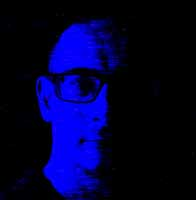
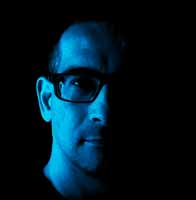
241022
138

diff --git a/index.html b/index.html
@@ -15,7 +15,7 @@
       <section class="header__left">
       </section>
       <section class="header__center">
-        <h1 class="header__hi">Hi, i'm Serge.</h1>
+        <h1 class="header__hi">Hi, i'm Serge</h1>
         <h1 class="header__description"> This page contains a short info about me, my skills and my portfolio.</h1>
       </section>
       <section class="header__right">
@@ -25,7 +25,7 @@
       <section class="about-me">
         <section class="about">
           <h2 class="about__header">about me</h2>
-          <p><img class="my-foto" src="assets/images/me.png" alt="Image1"  ></p>
+          <p><img class="my-foto" src="assets/images/me.jpg" alt="Image1"  ></p>
           <div class="resume__text">
             <p class="text">I'm beginner front-end developer. Living in Kharkiv, Ukraine. </p>
             <p class="text">Currently learning html, css, js</p>

diff --git a/css/styles.css b/css/styles.css
@@ -148,7 +148,7 @@ body {
   font-family: 'Goldman', Sans-Serif;
   padding: 10px;
   background-color: black;
-  border: 3px solid #0058D3;
+  border: 3px solid #002251;
   border-radius: 15px;
   box-shadow: 0px 0px 3px #0058D3;
   color: #388BFF;
@@ -363,7 +363,7 @@ body {
 
   .header__hi {
     padding: 10px;
-    font-size: 28px; }
+    font-size: 22px; }
 
   .header__description {
     width: 90%;

diff --git a/source/styles.scss b/source/styles.scss
@@ -18,7 +18,7 @@
   font-family: 'Goldman', Sans-Serif;
   padding: 10px;
   background-color: black;
-  border: 3px solid #0058D3; 
+  border: 3px solid #002251; 
   border-radius: 15px;
   box-shadow: 0px 0px 3px #0058D3;
   color: #388BFF;
@@ -388,7 +388,7 @@ body {
   }
   .header__hi  {
     padding: 10px;
-    font-size: 28px;
+    font-size: 22px;
   }
   .header__description {
     width: 90%;
